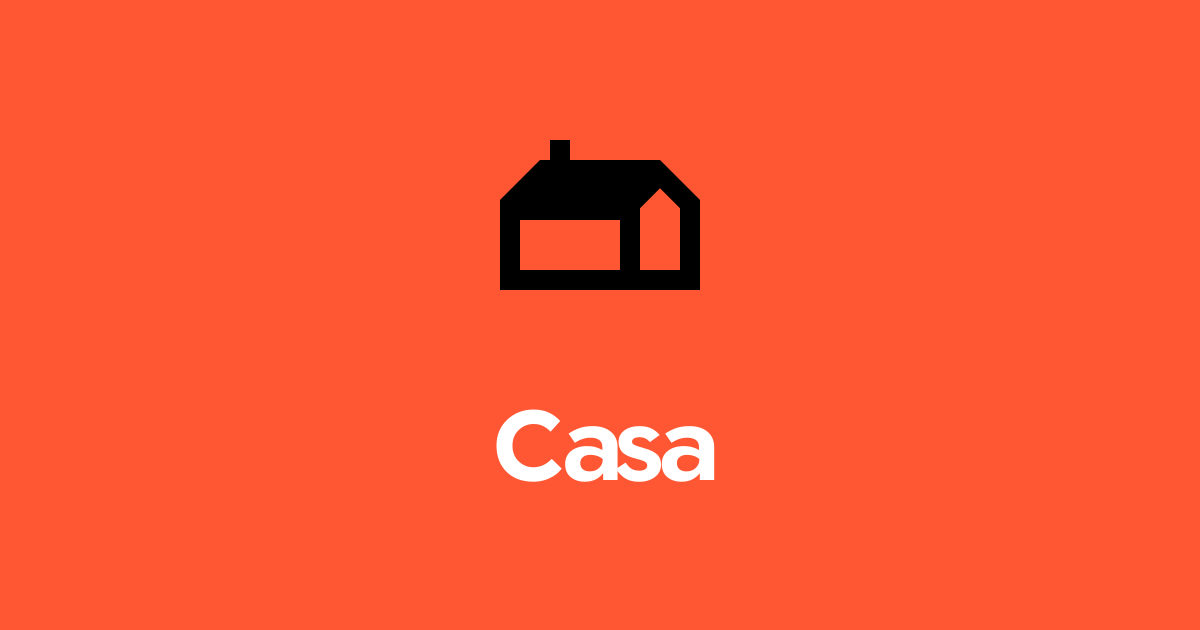
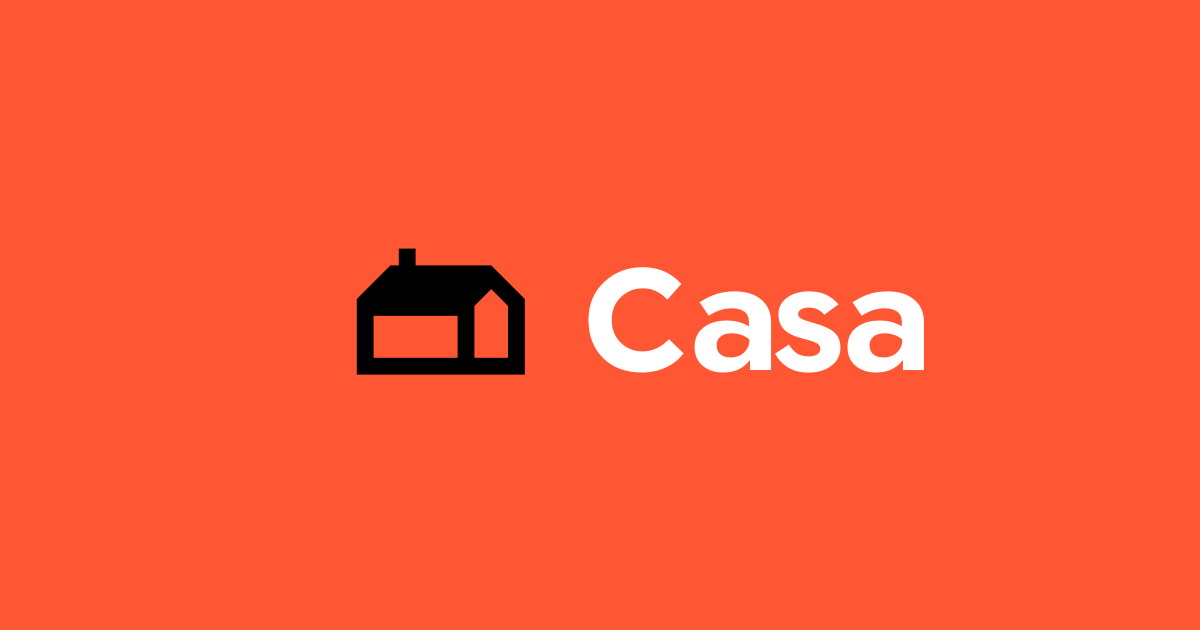
Update OG image to single-row lockup with better letter spacing

Changed region(s): [[0.2775, 0.2111, 0.7708, 0.6032], [0.4008, 0.6333, 0.6167, 0.7841]]

diff --git a/scripts/generate-og.js b/scripts/generate-og.js
@@ -9,14 +9,18 @@ const housePath = 'M80-200v-360l160-160h40v-80h80v80h360l160 160v360H80Zm560-80h
 
 const svg = `<svg xmlns="http://www.w3.org/2000/svg" width="1200" height="630">
   <rect width="1200" height="630" fill="#ff5733"/>
-  <g transform="translate(480, 100) scale(0.25)">
-    <svg viewBox="0 -960 960 960" width="960" height="960">
-      <path d="${housePath}" fill="#000000"/>
-    </svg>
+  <!-- House icon + Casa in a single row, vertically centered -->
+  <g transform="translate(340, 215)">
+    <!-- House icon scaled to ~200px tall, anchored to baseline -->
+    <g transform="scale(0.21)">
+      <svg viewBox="0 -960 960 960" width="960" height="960">
+        <path d="${housePath}" fill="#000000"/>
+      </svg>
+    </g>
+    <!-- Casa text beside the icon -->
+    <text x="240" y="155" font-family="Google Sans Flex, sans-serif"
+      font-weight="700" font-size="140" letter-spacing="6" fill="#ffffff">Casa</text>
   </g>
-  <text x="600" y="480" text-anchor="middle"
-    font-family="Google Sans Flex, sans-serif" font-weight="700"
-    font-size="96" fill="#ffffff">Casa</text>
 </svg>`;
 
 const outputPath = join(__dirname, '..', 'public', 'og-image.png');
